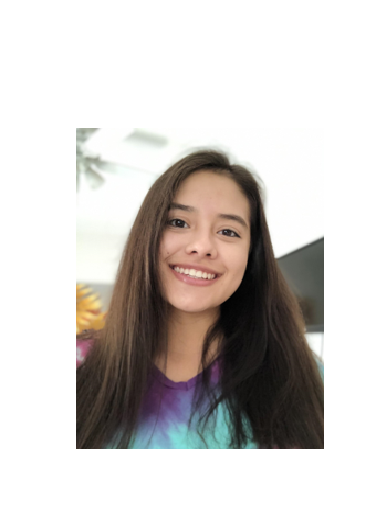
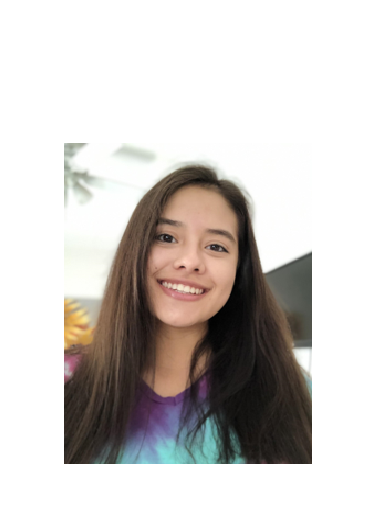
fixed and added padding

Changed region(s): [[0.1558, 0.2443, 0.8416, 0.8855]]

diff --git a/src/components/About.js b/src/components/About.js
@@ -35,9 +35,9 @@ export const About = () => (
 
                     <div class="album py-5 bg-light">
 
-                        <section class="py-5 text-center container">
+                        <div class="py-2 text-center container">
                             <h1 class="fw-light">Red Cross CSULB Members</h1>
-                        </section>
+                        </div>
                         <div class="container">
 
                             <div class="row row-cols-1 row-cols-sm-2 row-cols-md-3 g-3">
@@ -98,7 +98,7 @@ export const About = () => (
                                         <img src={Dang} className="card__image" />
                                         {/* <svg class="bd-placeholder-img card-img-top" width="100%" height="225" xmlns="http://www.w3.org/2000/svg" role="img" aria-label="Placeholder: Club" preserveAspectRatio="xMidYMid slice" focusable="false"><title>Club member photo</title><rect width="100%" height="100%" fill="#55595c" /><text x="50%" y="50%" fill="#eceeef" dy=".3em">Club member photo</text></svg> */}
                                         <div class="card-body">
-                                            <p class="card-text"><strong>Name:</strong> President</p>
+                                            <p class="card-text"><strong>Name:</strong> Dang Duong</p>
                                             <p class="card-text"><strong>Position:</strong> President</p>
                                             <p class="card-text"><strong>Major:</strong> Molecular Cell Biology</p>
                                             <p class="card-text"><strong>School year:</strong> Senior</p>
